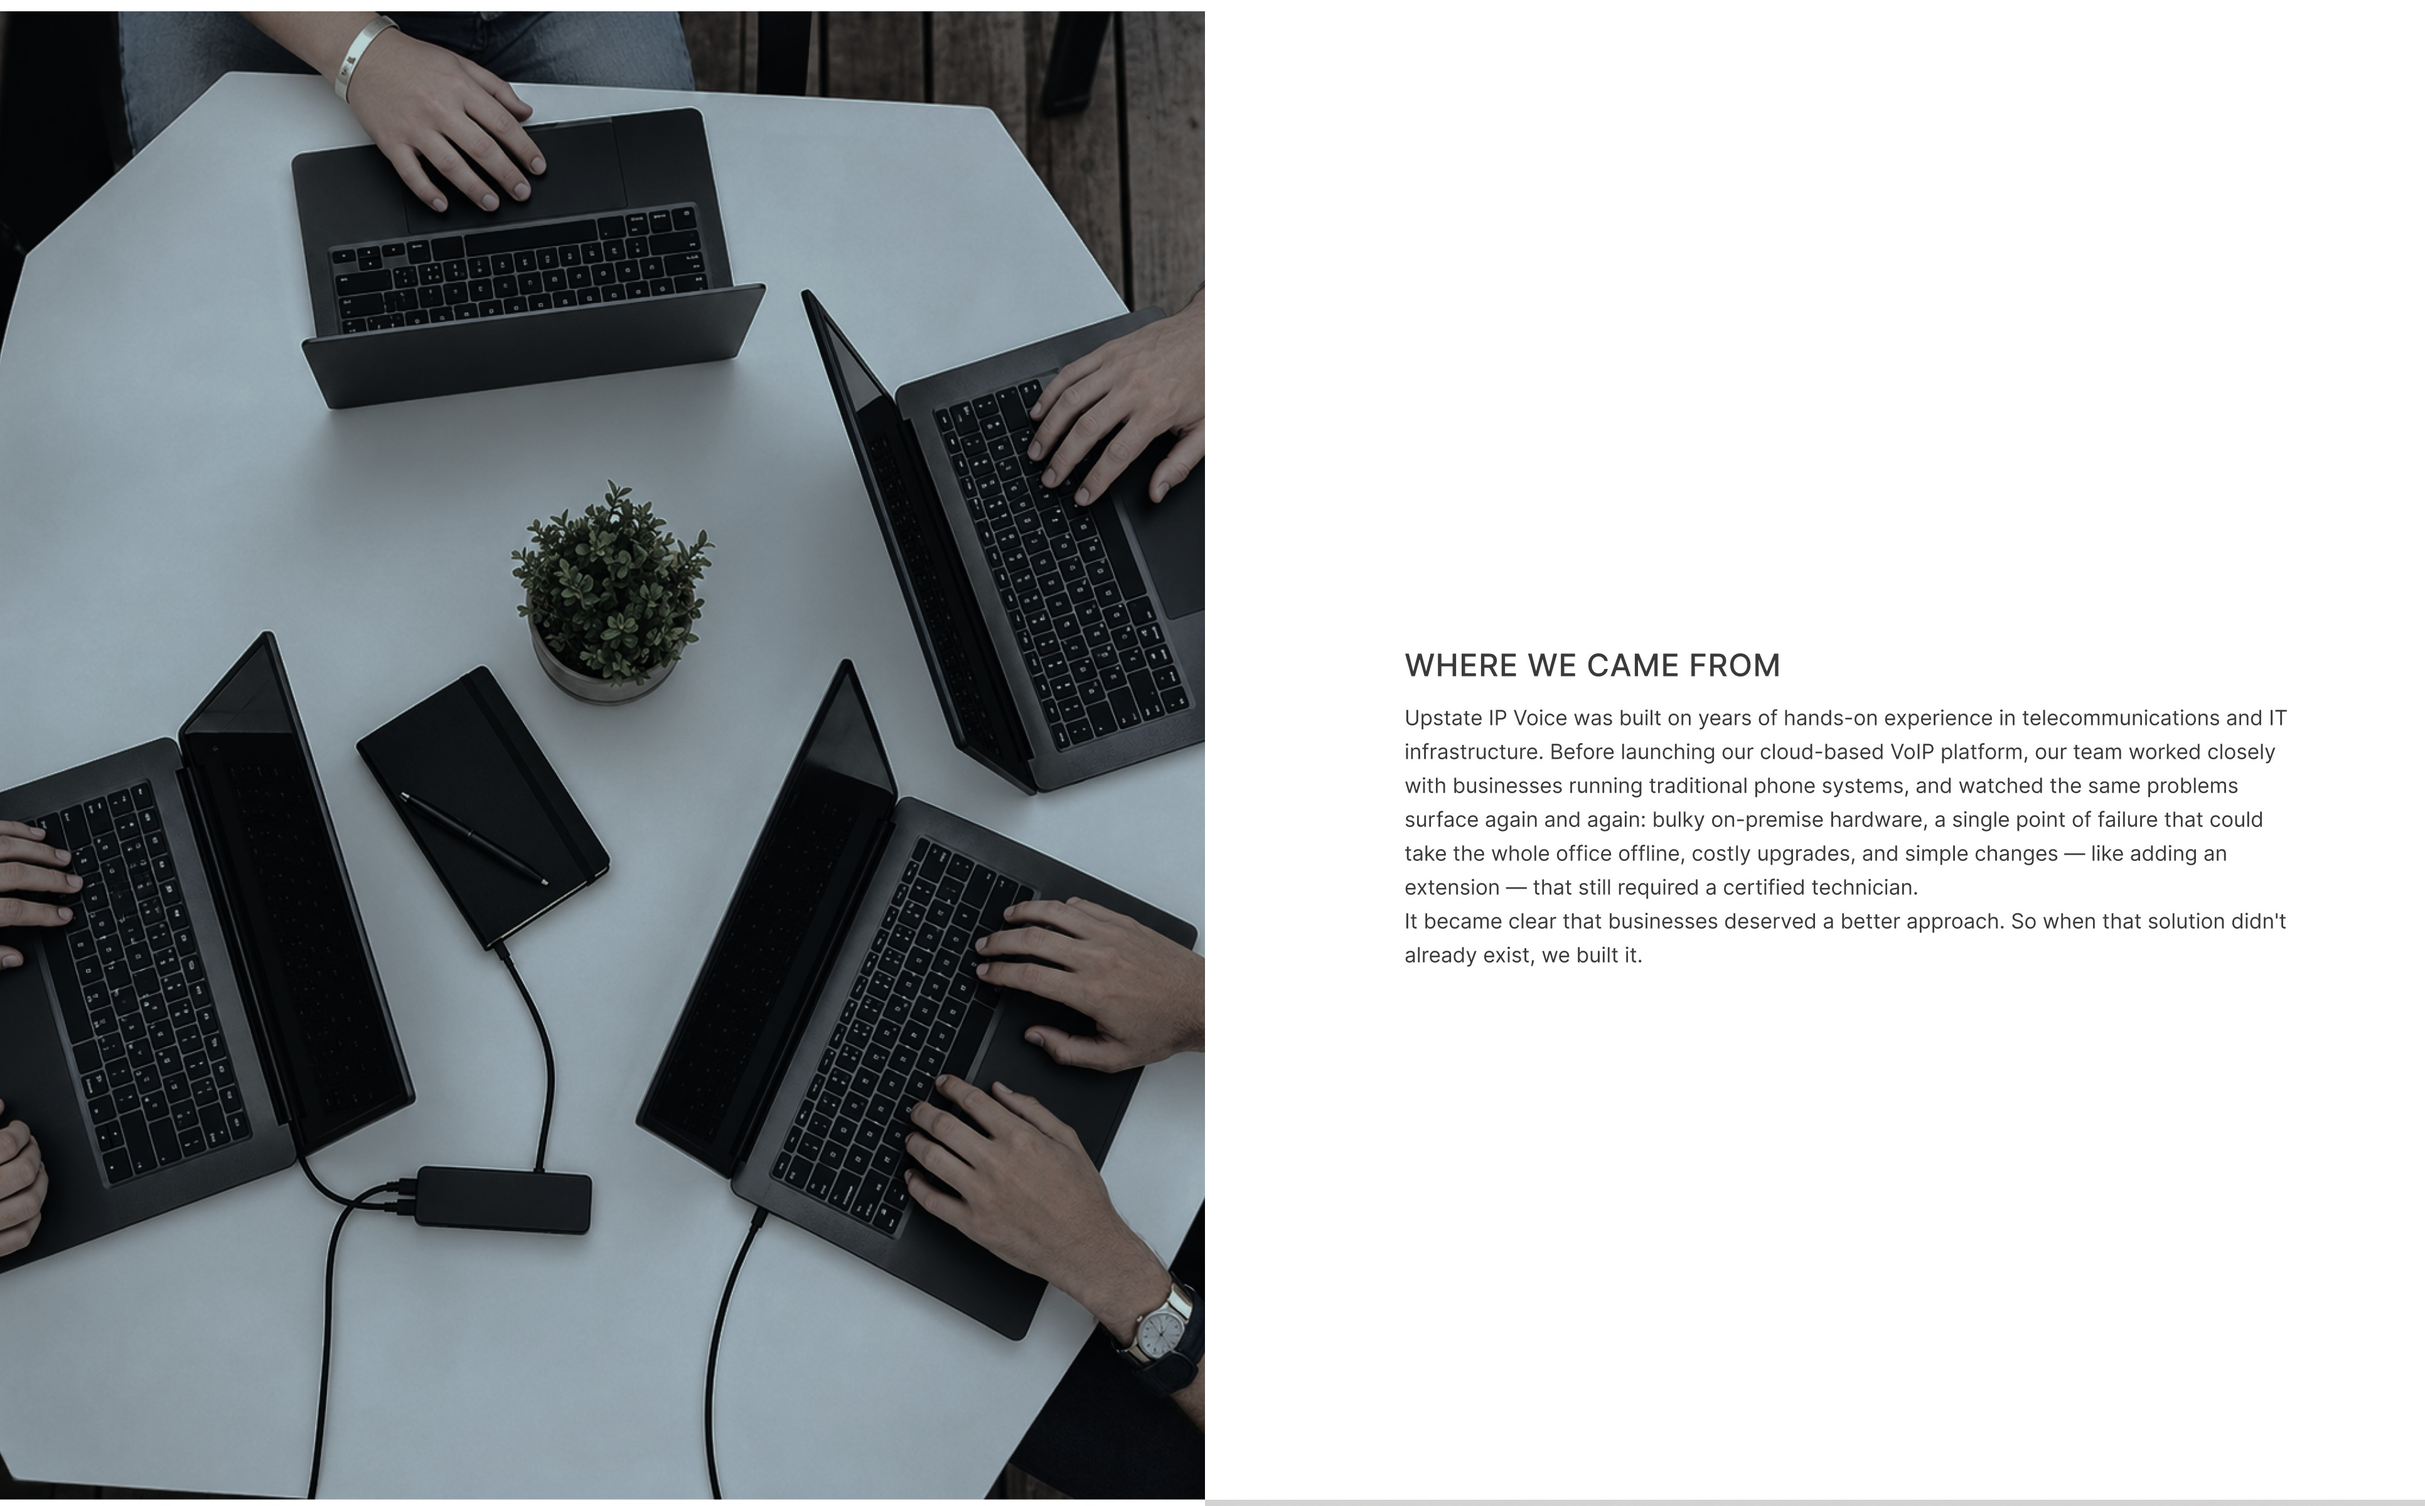
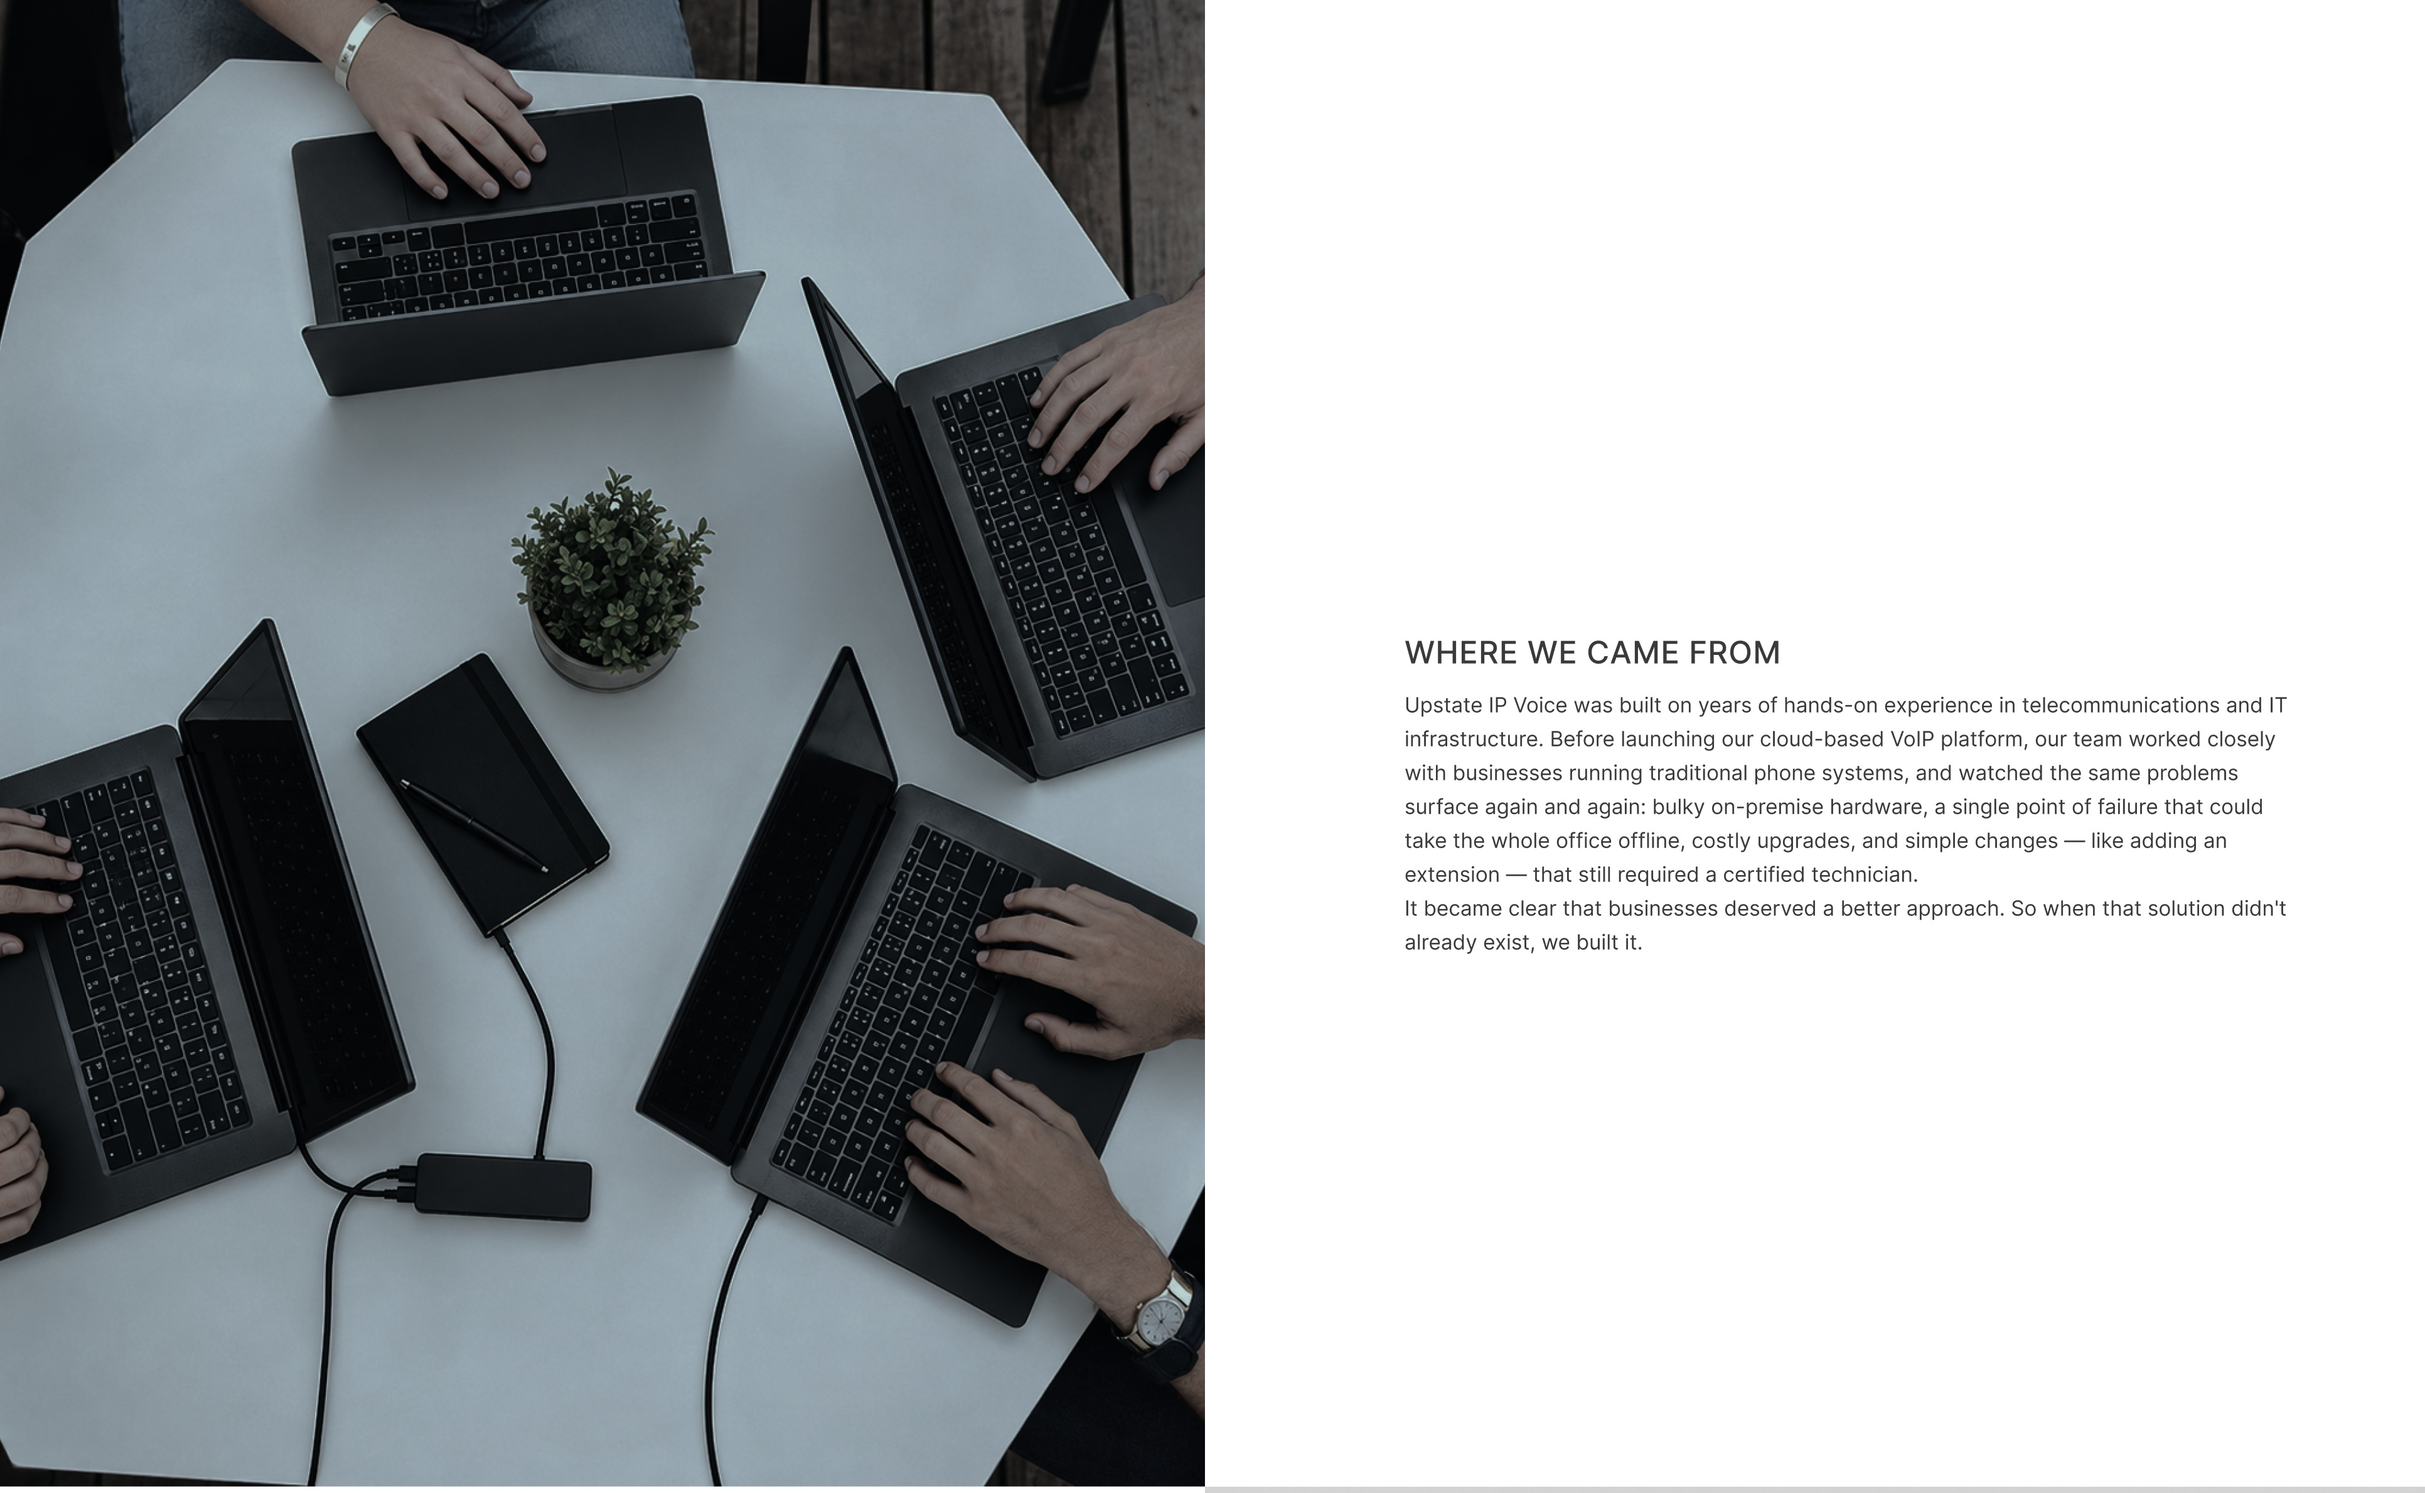
Fix About Us mission text centering and prevent overlap with next section.
Replace mission image slice with real centered HTML text and adjust came-from slice boundary so content is not clipped.

diff --git a/about.html b/about.html
@@ -76,12 +76,16 @@
       <h1 class="visually-hidden">Everything your business needs to communicate.</h1>
     </section>
 
-    <section class="about-figma__section">
-      <img src="images/about/02-mission.jpg" alt="Our mission is simple: make business communication easier, smarter, and more reliable." width="3864" height="1100" loading="lazy" decoding="async">
+    <section class="about-figma__section about-mission" aria-labelledby="about-mission-heading">
+      <p id="about-mission-heading" class="about-mission__eyebrow">Our Mission</p>
+      <p class="about-mission__text">
+        Our mission is simple: make business communication easier, smarter, and more reliable.
+        Communication should support your business — not slow it down, complicate it, or require specialized technical knowledge to manage.
+      </p>
     </section>
 
     <section class="about-figma__section">
-      <img src="images/about/03-came-from.jpg" alt="Where we came from: Upstate IP Voice was built on years of hands-on experience in telecommunications and IT infrastructure." width="3864" height="2400" loading="lazy" decoding="async">
+      <img src="images/about/03-came-from.jpg" alt="Where we came from: Upstate IP Voice was built on years of hands-on experience in telecommunications and IT infrastructure." width="3864" height="2380" loading="lazy" decoding="async">
     </section>
 
     <section class="about-figma__section">

diff --git a/css/style.css b/css/style.css
@@ -4850,6 +4850,35 @@ h2,
   object-position: center top;
 }
 
+.about-mission {
+  line-height: normal;
+  background: #fff;
+  padding: clamp(80px, 7.5vw, 132px) clamp(24px, 5vw, 64px);
+  text-align: center;
+}
+
+.about-mission__eyebrow {
+  margin: 0 0 clamp(28px, 3vw, 44px);
+  font-family: 'Inter', sans-serif;
+  font-size: 11px;
+  font-weight: 400;
+  letter-spacing: 0.22em;
+  text-transform: uppercase;
+  color: #7E7E7E;
+}
+
+.about-mission__text {
+  margin: 0 auto;
+  max-width: min(920px, 100%);
+  font-family: 'Inter', sans-serif;
+  font-size: clamp(22px, 2.35vw, 34px);
+  font-weight: 500;
+  line-height: 1.45;
+  letter-spacing: 0.06em;
+  text-transform: uppercase;
+  color: #3A3A3A;
+}
+
 .index-hero-video.index-figma__hero {
   background: var(--index-strip-bg);
 }

diff --git a/scripts/slice-about.js b/scripts/slice-about.js
@@ -27,8 +27,7 @@ os.makedirs(out_dir, exist_ok=True)
 
 sections = [
     ('01-hero.jpg', 0, 160, w, 2080),
-    ('02-mission.jpg', 0, 2080, w, 3180),
-    ('03-came-from.jpg', 0, 3180, w, 5580),
+    ('03-came-from.jpg', 0, 3200, w, 5580),
     ('04-vision.jpg', 0, 5580, w, 7980),
     ('05-brand.jpg', 0, 7980, w, 10400),
     ('06-horse.jpg', 0, 10400, w, 12800),
